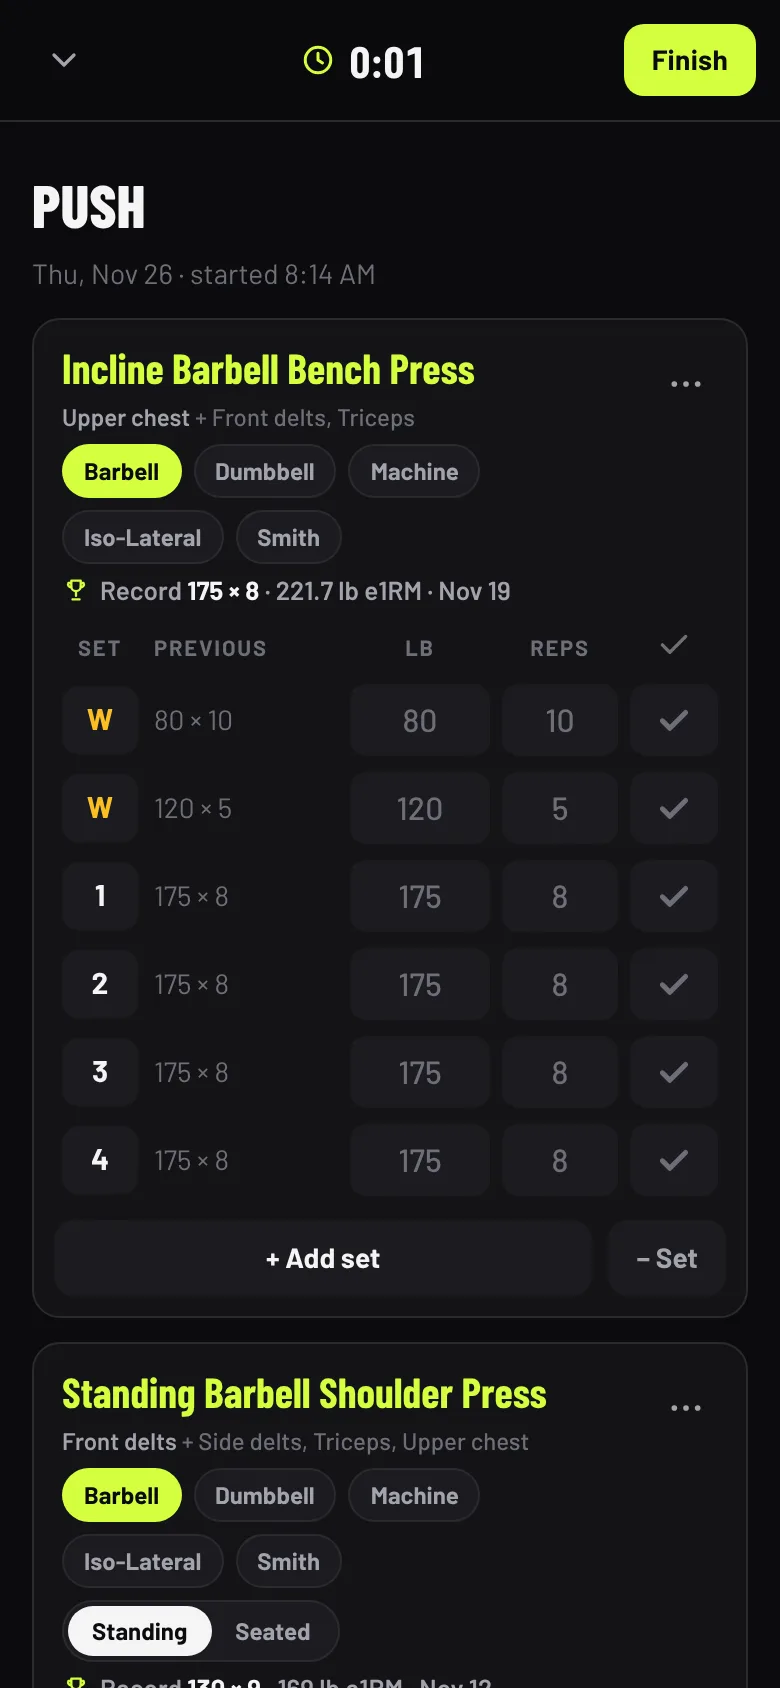
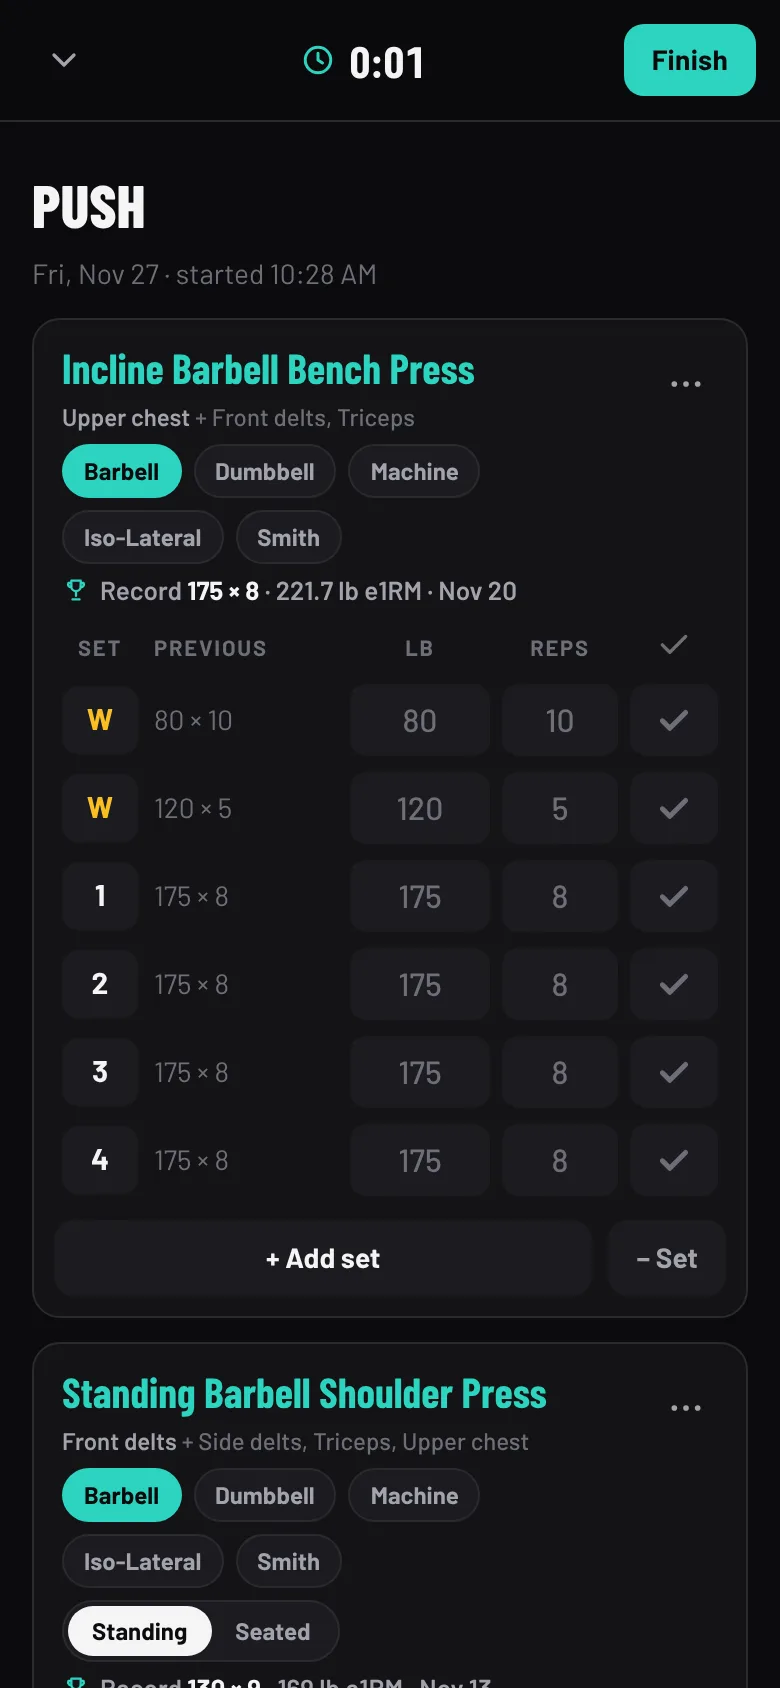
Make teal the default accent everywhere
The app already defaulted new users to the Teal theme, but the CSS fallback
(shown before JS applies the theme), the demo, the landing page, stats page
and legal pages were still volt. Switch them all to teal (#2dd4bf) and
regenerate the landing screenshots and link-preview card from the teal demo.
Volt stays available as a theme option.

Claude-Session: https://claude.ai/code/session_01QPefeaHrSReGSRyo9vzaqB

diff --git a/landing/index.html b/landing/index.html
@@ -24,7 +24,7 @@
 :root{
   --bg:#0b0b0d; --s1:#141417; --s2:#1c1c20; --line:#2a2a31;
   --tx:#f4f4f5; --tx2:#a3a3ad; --tx3:#6e6e78;
-  --acc:#d4ff3f; --acc-ink:#0b0b0d; --acc-dim:rgba(212,255,63,.10); --acc-mid:rgba(212,255,63,.22);
+  --acc:#2dd4bf; --acc-ink:#0b0b0d; --acc-dim:rgba(45,212,191,.10); --acc-mid:rgba(45,212,191,.22);
   --head:'Barlow Condensed',system-ui,sans-serif; --body:'Barlow',system-ui,-apple-system,sans-serif;
 }
 *{box-sizing:border-box}
@@ -52,7 +52,7 @@ nav .wrap{display:flex;align-items:center;justify-content:space-between;height:6
 .btn{display:inline-flex;align-items:center;justify-content:center;gap:8px;height:52px;padding:0 24px;border-radius:14px;font-weight:700;font-size:17px;text-decoration:none;white-space:nowrap;transition:transform .12s,background .12s}
 .btn:active{transform:scale(.98)}
 .btn-acc{background:var(--acc);color:var(--acc-ink)}
-.btn-acc:hover{background:#e0ff6e}
+.btn-acc:hover{background:#5eead4}
 .btn-line{border:1px solid var(--line);color:var(--tx);background:var(--s1)}
 .btn-line:hover{background:var(--s2)}
 .btn.sm{height:38px;padding:0 14px;font-size:15px;border-radius:10px}
@@ -240,7 +240,7 @@ footer a:hover{color:var(--tx)}
       <div class="card"><svg viewBox="0 0 24 24"><path d="M5 9h14M5 15h14"/><circle cx="12" cy="12" r="10"/></svg><h3>Drag to reorder</h3><p>Machine taken? Drag the next exercise up and keep moving.</p></div>
       <div class="card"><svg viewBox="0 0 24 24"><rect x="5" y="2" width="14" height="20" rx="3"/><path d="M11 18h2"/></svg><h3>Phone and laptop</h3><p>Sign in and your log syncs. Plan on the laptop, log on your phone.</p></div>
       <div class="card"><svg viewBox="0 0 24 24"><path d="M2 8.8a15 15 0 0 1 20 0M5 12.5a10 10 0 0 1 14 0M8.5 16.4a5 5 0 0 1 7 0M12 20h.01"/></svg><h3>Works offline</h3><p>Basement gym with no signal? Keep logging. It syncs when you're back online.</p></div>
-      <div class="card"><svg viewBox="0 0 24 24"><circle cx="13.5" cy="6.5" r="1.5"/><circle cx="17.5" cy="10.5" r="1.5"/><circle cx="8.5" cy="7.5" r="1.5"/><circle cx="6.5" cy="12.5" r="1.5"/><path d="M12 2a10 10 0 0 0 0 20c1.1 0 2-.9 2-2 0-.5-.2-1-.5-1.3-.3-.4-.5-.8-.5-1.3 0-1.1.9-2 2-2h2.4A5.6 5.6 0 0 0 22 9.8C22 5.5 17.5 2 12 2z"/></svg><h3>20 themes</h3><p>Lime on black not your thing? Pick from 20 color themes.</p></div>
+      <div class="card"><svg viewBox="0 0 24 24"><circle cx="13.5" cy="6.5" r="1.5"/><circle cx="17.5" cy="10.5" r="1.5"/><circle cx="8.5" cy="7.5" r="1.5"/><circle cx="6.5" cy="12.5" r="1.5"/><path d="M12 2a10 10 0 0 0 0 20c1.1 0 2-.9 2-2 0-.5-.2-1-.5-1.3-.3-.4-.5-.8-.5-1.3 0-1.1.9-2 2-2h2.4A5.6 5.6 0 0 0 22 9.8C22 5.5 17.5 2 12 2z"/></svg><h3>20 themes</h3><p>Teal on black not your thing? Pick from 20 color themes.</p></div>
     </div>
   </section>
 

diff --git a/legal/legal.css b/legal/legal.css
@@ -1,7 +1,7 @@
 /* Shared styles for the privacy policy and terms pages (copied to public/legal.css by scripts/build.py). */
-:root{--bg:#0b0b0d;--s1:#141417;--line:#2a2a31;--tx:#f4f4f6;--tx2:#a3a3ad;--acc:#d4ff3f;--mark:#5a4a12;--mark-tx:#ffe9a8;
+:root{--bg:#0b0b0d;--s1:#141417;--line:#2a2a31;--tx:#f4f4f6;--tx2:#a3a3ad;--acc:#2dd4bf;--mark:#5a4a12;--mark-tx:#ffe9a8;
   --head:'Barlow Condensed',system-ui,sans-serif;--body:'Barlow',system-ui,-apple-system,sans-serif}
-@media (prefers-color-scheme: light){:root{--bg:#f6f6f3;--s1:#ffffff;--line:#e2e2dc;--tx:#141417;--tx2:#55555e;--acc:#4d6b00;--mark:#fff1b8;--mark-tx:#3d2f00}}
+@media (prefers-color-scheme: light){:root{--bg:#f6f6f3;--s1:#ffffff;--line:#e2e2dc;--tx:#141417;--tx2:#55555e;--acc:#0f766e;--mark:#fff1b8;--mark-tx:#3d2f00}}
 *{box-sizing:border-box}
 html,body{margin:0;background:var(--bg);color:var(--tx);font-family:var(--body);font-size:17px;line-height:1.6}
 main{max-width:720px;margin:0 auto;padding:28px 16px 64px}

diff --git a/app/demo-data.html b/app/demo-data.html
@@ -90,7 +90,7 @@ window.SPOTTER_DEMO = {
     const off = [{id:'off_vac', type:'vacation', from:idxOf(TOTAL - 54), to:idxOf(TOTAL - 48), note:'Moving to a new place'},
                  {id:'off_sick', type:'sick', from:idxOf(TOTAL - 120), to:idxOf(TOTAL - 120), note:'Food poisoning'}];
     return {
-      settings:{units:'lb', rest:120, theme:'volt', bw:81.647, bwAsked:true},
+      settings:{units:'lb', rest:120, theme:'teal', bw:81.647, bwAsked:true},
       routines:Object.entries(DAYS).map(([name, ids]) => ({id:routineIds[name], name, ex:ids.map(id => ({exId:id, n:P[id][4]}))})),
       customExercises:[{id:'c_kelso', name:'Kelso Shrug', muscle:'Traps', eq:'Dumbbell', p:['Upper back'], s:['Traps','Rear delts']}],
       workouts, active:null, off,

diff --git a/firebase/stats.html b/firebase/stats.html
@@ -7,7 +7,7 @@
 <title>Spotter Stats</title>
 <link rel="icon" href="../icons/icon-192.png">
 <style>
-:root{--bg:#0b0b0d;--s1:#141417;--s2:#1c1c20;--line:#2a2a31;--tx:#f2f2f4;--tx2:#b4b4bc;--tx3:#7c7c86;--acc:#d4ff3f;--acc-ink:#0b0b0d;--danger:#ff6b6b}
+:root{--bg:#0b0b0d;--s1:#141417;--s2:#1c1c20;--line:#2a2a31;--tx:#f2f2f4;--tx2:#b4b4bc;--tx3:#7c7c86;--acc:#2dd4bf;--acc-ink:#0b0b0d;--danger:#ff6b6b}
 *{box-sizing:border-box}
 html,body{margin:0;background:var(--bg);color:var(--tx);font:16px/1.45 system-ui,-apple-system,Segoe UI,Roboto,sans-serif}
 main{max-width:860px;margin:0 auto;padding:24px 16px 60px}

diff --git a/app/index.html b/app/index.html
@@ -14,7 +14,7 @@
 :root{
   --bg:#0b0b0d; --s1:#141417; --s2:#1c1c20; --s3:#26262c; --line:#2a2a31;
   --tx:#f4f4f5; --tx2:#a3a3ad; --tx3:#6e6e78;
-  --acc:#d4ff3f; --acc-ink:#0b0b0d; --acc-dim:rgba(212,255,63,.10); --acc-mid:rgba(212,255,63,.22);
+  --acc:#2dd4bf; --acc-ink:#0b0b0d; --acc-dim:rgba(45,212,191,.10); --acc-mid:rgba(45,212,191,.22);
   --warm:#fbbf24; --drop:#c4a1ff; --danger:#ff7a7a;
   --r:14px; --head:'Barlow Condensed',system-ui,sans-serif; --body:'Barlow',system-ui,-apple-system,sans-serif;
 }
